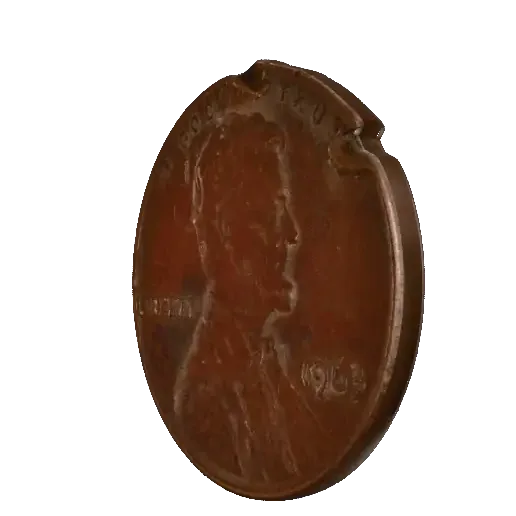
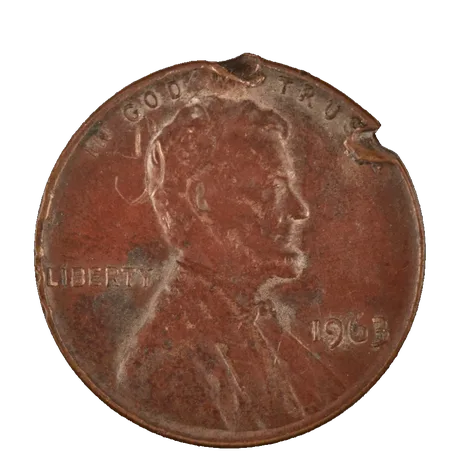
Re-cut all three coins from the 1080 exports, and protect the interiors
The gallery does have a resolution setting -- these came back as 1080, so the
coins crop to 851-915px instead of 391-516. All three now render at 460px and
sit at 220, which is 2.09x, so the 195px cap on the two soft ones is gone and
they match 321 again.

The background removal no longer works by colour alone. It floods in from the
border and only background actually REACHABLE from the edge may go clear;
everything enclosed stays opaque whatever colour it is. That matters here:
6434 has 11,743 cool-toned pixels enclosed inside the coin -- the blue-grey
oxide -- and a colour key punches every one of them out. Zero interior holes
now, checked on every frame of all three.

Two failures on the way, both worth recording. Image.fromarray gives a
read-only buffer, so ImageDraw.floodfill silently filled nothing and left the
image fully opaque; the fix is .copy(). And my first check for interior holes
counted transparent-but-unreachable pixels, which is trivially zero when
nothing is transparent -- it reported a clean pass on an image where the
background had not been removed at all. The check now asserts the corners are
actually clear and that the transparent fraction is in range.

diff --git a/cents/index.html b/cents/index.html
@@ -43,11 +43,6 @@
    who asked for less motion without needing script. */
 .hi{display:grid;grid-template-columns:1fr minmax(150px,220px);gap:34px;align-items:start}
 .hi>*{min-width:0}
-/* 321 came from a 1200x600 render and crops to 516px, so it holds at 220.
-   1264 and 6434 only exist at 860x480 and crop to 391, which is 1.78x at 220 --
-   under what a 2x screen wants. Capping those two at 195 puts them back over
-   2x. The 25px difference is invisible; the softness was not. */
-.hi.sm{grid-template-columns:1fr minmax(150px,195px)}
 
 @media(max-width:760px){.hi{grid-template-columns:1fr;gap:20px}
  .turn{max-width:220px;margin-inline:auto}}
@@ -56,9 +51,9 @@
 /* The two right-hand lists are short words -- Ord, X -- so their rules ran out
    into a wide empty band. The coin goes in that band rather than under it,
    which also stops this column growing taller than The project beside it. */
-.mkt{display:grid;grid-template-columns:1fr minmax(140px,195px);gap:26px;align-items:center}
+.mkt{display:grid;grid-template-columns:1fr minmax(140px,220px);gap:26px;align-items:center}
 .mkt>*{min-width:0}
-.mkt .turn{max-width:195px}
+.mkt .turn{max-width:220px}
 @media(max-width:820px){.mkt{grid-template-columns:1fr}
  .mkt .turn{max-width:200px;margin:20px auto 0}}
 
@@ -210,8 +205,8 @@
 </div>
 </div>
 <div class="hi"><div><h2 id="highlights">Highlights</h2><ul class="ln" id="u"></ul></div>
-<figure class="turn"><picture><source media="(prefers-reduced-motion: reduce)" srcset="/img/cents-3d/cent-321-still.webp"><img src="/img/cents-3d/cent-321-turn.webp" alt="A cent from the collection, turning to show both faces" width="516" height="516" loading="lazy" decoding="async"></picture></figure></div><div class="hi sm"><div><h2 id="press">Press</h2><ul class="ln" id="r"></ul></div>
-<figure class="turn"><picture><source media="(prefers-reduced-motion: reduce)" srcset="/img/cents-3d/cent-6434-still.webp"><img src="/img/cents-3d/cent-6434-turn.webp" alt="A cent from the collection, turning to show both faces" width="392" height="392" loading="lazy" decoding="async"></picture></figure></div><div class="cols"><div><h2 id="project">The project</h2><ul class="ln" id="p"></ul></div><div class="mkt"><div><h2 id="markets">Marketplaces</h2><ul class="ln" id="m"></ul><h2 id="socials">Socials</h2><ul class="ln" id="s"></ul></div><figure class="turn"><picture><source media="(prefers-reduced-motion: reduce)" srcset="/img/cents-3d/cent-1264-still.webp"><img src="/img/cents-3d/cent-1264-turn.webp" alt="A cent from the collection, turning to show both faces" width="392" height="392" loading="lazy" decoding="async"></picture></figure></div></div><h2 id="ucca">At UCCA Beijing</h2></div><div class="gal" id="g"></div><div class="wrap tail"><p class="cap">Installation views, <i>Rutherford Chang: Hundreds and Thousands</i>, UCCA Center for Contemporary Art, 2026. Photography Sun Shi. Courtesy UCCA and the Estate of Rutherford Chang.</p>
+<figure class="turn"><picture><source media="(prefers-reduced-motion: reduce)" srcset="/img/cents-3d/cent-321-still.webp"><img src="/img/cents-3d/cent-321-turn.webp" alt="A cent from the collection, turning to show both faces" width="460" height="460" loading="lazy" decoding="async"></picture></figure></div><div class="hi"><div><h2 id="press">Press</h2><ul class="ln" id="r"></ul></div>
+<figure class="turn"><picture><source media="(prefers-reduced-motion: reduce)" srcset="/img/cents-3d/cent-6434-still.webp"><img src="/img/cents-3d/cent-6434-turn.webp" alt="A cent from the collection, turning to show both faces" width="460" height="460" loading="lazy" decoding="async"></picture></figure></div><div class="cols"><div><h2 id="project">The project</h2><ul class="ln" id="p"></ul></div><div class="mkt"><div><h2 id="markets">Marketplaces</h2><ul class="ln" id="m"></ul><h2 id="socials">Socials</h2><ul class="ln" id="s"></ul></div><figure class="turn"><picture><source media="(prefers-reduced-motion: reduce)" srcset="/img/cents-3d/cent-1264-still.webp"><img src="/img/cents-3d/cent-1264-turn.webp" alt="A cent from the collection, turning to show both faces" width="460" height="460" loading="lazy" decoding="async"></picture></figure></div></div><h2 id="ucca">At UCCA Beijing</h2></div><div class="gal" id="g"></div><div class="wrap tail"><p class="cap">Installation views, <i>Rutherford Chang: Hundreds and Thousands</i>, UCCA Center for Contemporary Art, 2026. Photography Sun Shi. Courtesy UCCA and the Estate of Rutherford Chang.</p>
 </div>
 <div class="field" role="img" aria-label="Several hundred more of the ten thousand cents, before they were smelted"><img src="/img/cents-field/field.webp" alt="" loading="lazy" width="2116" height="1252"></div>
 <div class="wrap tail">
